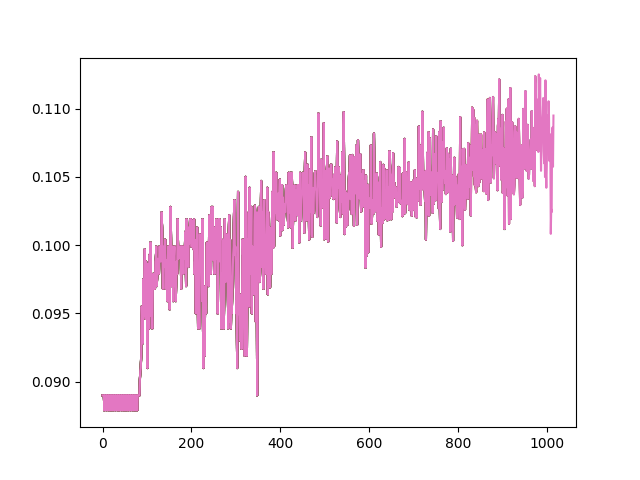
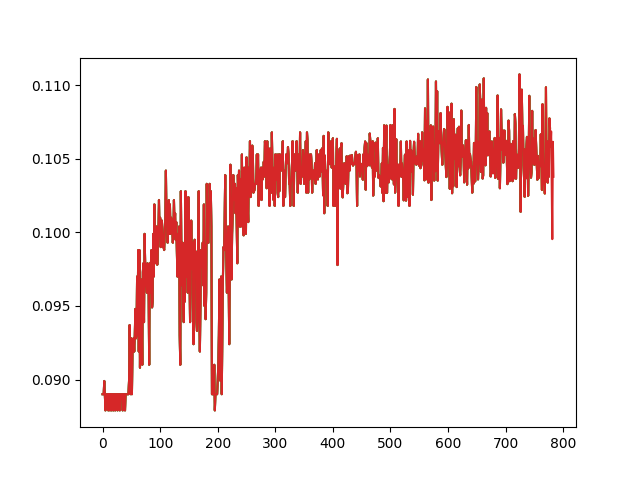
Add brute exploring

diff --git a/experiment.py b/experiment.py
@@ -41,7 +41,7 @@ ACTIONS_1 = 2
 ACTIONS_2 = 3 # change to not equal 3 if you don't want action 3 to be treated specially
 ACTIONS_NAME=['不动','起飞', 'FIRE']  #动作名
 GAMMA = 0.99 # 未来奖励的衰减
-EPSILON = 0.0001
+EPSILON = 0.001
 REPLAY_MEMORY = 50000 # 观测存储器D的容量
 BATCH = 32 # 训练batch大小
 
@@ -206,7 +206,8 @@ def myprint(s):
     with open('structure.txt','w') as f:
         print(s, file=f)
 
-def trainNetwork(stage, num_of_actions, lock_mode, is_simple_actions_locked, is_activate_boss_memory, isSweetBoss, max_steps, resume_Adam, is_resume_RB_in_drive, learning_rate=1e-6, event=None, is_colab=False):
+def trainNetwork(stage, num_of_actions, lock_mode, is_simple_actions_locked, is_activate_boss_memory, isSweetBoss, max_steps, resume_Adam, is_resume_RB_in_drive, is_brute_exploring, learning_rate=1e-6, event=None, is_colab=False):
+    brute_exploring_rng = np.random.default_rng()
     hindsight_memory = []
     neuron = open("neurons.txt", 'w')
     os.environ['TF_CPP_MIN_LOG_LEVEL'] = '3' # Ask the tensorflow to shut up. IF you disable this, a bunch of logs from tensorflow will put you down when you're using colab.
@@ -334,7 +335,6 @@ def trainNetwork(stage, num_of_actions, lock_mode, is_simple_actions_locked, is_
                 net1.load_weights(checkpoint_save_path,by_name=True)
             else: # Train new network for the control group
                 print('-------------train new model-------------')
-                input()
                 net1 = MyNet2(now_num_action)
                 net1.build(input_shape=(1, input_sidelength[0], input_sidelength[1], 4))
                 net1.call(Input(shape=(input_sidelength[0], input_sidelength[1], 4)))
@@ -362,7 +362,6 @@ def trainNetwork(stage, num_of_actions, lock_mode, is_simple_actions_locked, is_
             print(net1.f2.get_weights())
             print('======================================')
             print(controlNet.f2.get_weights())
-            input()
             controlNet = None # clean the garbage
             num_actions_file = open('now_num_of_actions.txt', 'w')
             num_actions_file.write(str(ACTIONS_2))
@@ -514,6 +513,8 @@ def trainNetwork(stage, num_of_actions, lock_mode, is_simple_actions_locked, is_
     net1_target.set_weights(net1.get_weights())
     fall_action_effect_len = 20
     fall_action_effect_frame = fall_action_effect_len
+    bruted_len = 1
+    num_of_bruted_frames = 1
     # 开始训练
     while True:
         if (event != None and event.is_set()) or t > max_steps:
@@ -532,7 +533,7 @@ def trainNetwork(stage, num_of_actions, lock_mode, is_simple_actions_locked, is_
         a_t_to_game = np.zeros([num_of_actions])
         action_index = 0
         
-        if fall_action_effect_frame < fall_action_effect_len:
+        if fall_action_effect_frame < fall_action_effect_len: # pressing key '9' to fall <fall_action_effect_len> frames
             fall_action_effect_frame += 1
         #贪婪策略，有episilon的几率随机选择动作去探索，否则选取Q值最大的动作
         ispress = False
@@ -562,10 +563,23 @@ def trainNetwork(stage, num_of_actions, lock_mode, is_simple_actions_locked, is_
             
         if (not ispress):
             if (t > -1):
-                if random.random() <= epsilon:
-                    print("----------Random Action----------")
+                if num_of_bruted_frames < bruted_len:
+                    print("----------Bruted Random Action----------")
                     action_index = random.randrange(num_of_actions)
                     a_t_to_game[action_index] = 1
+                    num_of_bruted_frames += 1
+                elif random.random() <= epsilon:
+                    if is_brute_exploring:
+                        print("----------Start Brute Exploring----------")
+                        bruted_len = (int)(brute_exploring_rng.uniform(low=1, high=10))
+                        num_of_bruted_frames = 0
+                        action_index = random.randrange(num_of_actions)
+                        a_t_to_game[action_index] = 1
+                        num_of_bruted_frames += 1
+                    else:
+                        print("----------Random Action----------")
+                        action_index = random.randrange(num_of_actions)
+                        a_t_to_game[action_index] = 1
                 else:
                     print("-----------net choice----------------")
                     action_index = np.argmax(readout_t)
@@ -642,13 +656,14 @@ def trainNetwork(stage, num_of_actions, lock_mode, is_simple_actions_locked, is_
                 D_boss.append((s_t_D, a_t_D, r_t_D, s_t1_D, terminal))
             else:
                 D.append((s_t_D, a_t_D, r_t_D, s_t1_D, terminal))
-        if t <= OBSERVE:
-            D_save.append((s_t_D_next, a_t_D, r_t_D, s_t1_D_next, terminal))
-        else:
-            if not is_resume_RB_in_drive and t == OBSERVE + 1:
-                buffer_to_write = np.array(D_save, dtype=object) # Write the replay memory on observe to the drive
-                np.save('last_buffer', buffer_to_write)
-            D_save = None # After writing to the drive, clean the memory
+        # if t <= OBSERVE:
+        #     #D_save.append((s_t_D_next, a_t_D, r_t_D, s_t1_D_next, terminal))
+        # else:
+        #     if not is_resume_RB_in_drive and t == OBSERVE + 1:
+        #         buffer_to_write = np.array(D_save, dtype=object) # Write the replay memory on observe to the drive
+        #         np.save('last_buffer', buffer_to_write)
+        #     buffer_to_write = None
+        #     D_save = None # After writing to the drive, clean the memory
         #如果D满了就替换最早的观测
         if len(D) > REPLAY_MEMORY:
             D.popleft()
@@ -689,7 +704,7 @@ def trainNetwork(stage, num_of_actions, lock_mode, is_simple_actions_locked, is_
             print("==================start train====================")
             print("Boss length", len(D_boss))
             num_of_boss_batch = int(BATCH * 1 / 2)
-            if len(D_boss) <= 500:
+            if len(D_boss) <= 3000:
                 minibatch = random.sample(D, BATCH)
             else:
                 minibatch = random.sample(D, BATCH - num_of_boss_batch)

diff --git a/app.py b/app.py
@@ -1,6 +1,6 @@
 import sys
 import threading
-from PyQt5.QtWidgets import QApplication, QWidget, QVBoxLayout, QHBoxLayout, QLabel, QComboBox, QPushButton, QCheckBox, QLineEdit, QMessageBox, QRadioButton, QButtonGroup
+from PyQt5.QtWidgets import QApplication, QWidget, QVBoxLayout, QGridLayout, QHBoxLayout, QLabel, QComboBox, QPushButton, QCheckBox, QLineEdit, QMessageBox, QRadioButton, QButtonGroup
 from PyQt5.QtGui import QPixmap, QMovie
 from PyQt5.QtCore import Qt, QTimer, QRect, QSize
 import os
@@ -58,6 +58,7 @@ class MyWindow(QWidget):
         self.sweet_boss_checkbox = QCheckBox('Is Sweet Boss')
         self.inherit_checkpoint_checkbox = QCheckBox('Is Checkpoint Inheritted')
         self.resume_RB_checkbox = QCheckBox('Is Previous Stage Replay Buffer Resumed')
+        self.brute_exploring_checkbox = QCheckBox('Is Brute Exploring')
 
         self.train_button = QPushButton('Start Training')
         self.train_new_button = QPushButton('Train New Network')
@@ -106,15 +107,14 @@ class MyWindow(QWidget):
         layout.addWidget(self.lockmode_label)
         layout.addLayout(locks_layout)
 
-        layout.addWidget(self.lock_simple_actions_checkbox)
-
-        layout.addWidget(self.activate_boss_mem_checkbox)
-
-        layout.addWidget(self.sweet_boss_checkbox)
-
-        layout.addWidget(self.inherit_checkpoint_checkbox)
-
-        layout.addWidget(self.resume_RB_checkbox)
+        checkbox_layout = QGridLayout()
+        checkbox_layout.addWidget(self.lock_simple_actions_checkbox, 0, 0)
+        checkbox_layout.addWidget(self.activate_boss_mem_checkbox, 1, 0)
+        checkbox_layout.addWidget(self.brute_exploring_checkbox, 2, 0)
+        checkbox_layout.addWidget(self.sweet_boss_checkbox, 0, 1)
+        checkbox_layout.addWidget(self.inherit_checkpoint_checkbox, 1, 1)
+        checkbox_layout.addWidget(self.resume_RB_checkbox, 2, 1)
+        layout.addLayout(checkbox_layout)
 
         layout.addWidget(self.max_steps_label)
         layout.addWidget(self.max_steps_input)
@@ -181,7 +181,8 @@ class MyWindow(QWidget):
             is_activate_boss_memory = self.activate_boss_mem_checkbox.isChecked()
             is_sweet_boss = self.sweet_boss_checkbox.isChecked()
             is_inherit_checkpoint = self.inherit_checkpoint_checkbox.isChecked()
-            is_RB_resumed = self.resume_RB_checkbox
+            is_RB_resumed = self.resume_RB_checkbox.isChecked()
+            is_brute_exploring = self.brute_exploring_checkbox.isChecked()
             try:
                 max_steps = int(self.max_steps_input.text())
             except ValueError:
@@ -198,7 +199,7 @@ class MyWindow(QWidget):
             self.train_new_button.setEnabled(False)
 
             self.training_event = threading.Event()
-            self.training_thread = threading.Thread(target=self.run_train_network, args=(stage, num_of_actions, self.lockmode, is_simple_locked, is_activate_boss_memory, is_inherit_checkpoint, is_sweet_boss, max_steps, is_RB_resumed, lr, self.training_event))
+            self.training_thread = threading.Thread(target=self.run_train_network, args=(stage, num_of_actions, self.lockmode, is_simple_locked, is_activate_boss_memory, is_inherit_checkpoint, is_sweet_boss, max_steps, is_RB_resumed, is_brute_exploring, lr, self.training_event))
             self.training_thread.start()
             #self.run_train_network(stage, is_pretrained_unlock, max_steps, self.training_event)
         else:
@@ -209,17 +210,17 @@ class MyWindow(QWidget):
             if self.training_thread:
                 self.training_event.set()
 
-    def run_train_network(self, stage, num_of_actions, lockmode, is_simple_locked, is_activate_boss_memory, is_inherit_checkpoint, is_sweet_boss, max_steps, is_RB_resumed, lr, event : threading.Event):
+    def run_train_network(self, stage, num_of_actions, lockmode, is_simple_locked, is_activate_boss_memory, is_inherit_checkpoint, is_sweet_boss, max_steps, is_RB_resumed, is_brute_exploring, lr, event : threading.Event):
         self.check_image_modification()
         from experiment import trainNetwork
         print(f"Training Network with stage={stage}, is_simple_locked={is_simple_locked}")
         last_steps = self.read_last_old_time()
         training_param_history_file = open('training_history.txt', 'a')
         training_param_history_file.write(f"LAST STEPS:\t{last_steps}-----------------------------\n")
-        training_param_history_file.write(f"stage:\t{stage}\nnum of actions:\t{num_of_actions}\nlock mode:\t{lockmode}\nis simple action locked:\t{is_simple_locked}\nis activate boss memory:\t{is_activate_boss_memory}\nis sweet boss:\t{is_sweet_boss}\nis RB resumed:\t{is_RB_resumed}\nlearning rate:\t{lr}\n")
+        training_param_history_file.write(f"stage:\t{stage}\nnum of actions:\t{num_of_actions}\nlock mode:\t{lockmode}\nis simple action locked:\t{is_simple_locked}\nis activate boss memory:\t{is_activate_boss_memory}\nis sweet boss:\t{is_sweet_boss}\nis RB resumed:\t{is_RB_resumed}\nis Brute Explore:\t{is_brute_exploring}\nlearning rate:\t{lr}\n")
         training_param_history_file.write('-----------------------------')
         training_param_history_file.close()
-        trainNetwork(stage, num_of_actions, lockmode, is_simple_locked, is_activate_boss_memory, is_sweet_boss, max_steps, is_inherit_checkpoint, is_RB_resumed, lr, event)
+        trainNetwork(stage, num_of_actions, lockmode, is_simple_locked, is_activate_boss_memory, is_sweet_boss, max_steps, is_inherit_checkpoint, is_RB_resumed, is_brute_exploring, lr, event)
         self.toggle_train_network()
 
     def confirm_train_new_network(self):

diff --git a/game/wrapped_flappy_bird.py b/game/wrapped_flappy_bird.py
@@ -11,7 +11,7 @@ from enum import Enum
 
 fireReward = 0.08
 misShoot = -0.5
-shootWrong = -0.05
+shootWrong = -0.1
 sweetBoss = 0.1
 no_fire_punishment = -0.5
 
@@ -315,7 +315,7 @@ class GameState:
                 if self.playery > PLAYER_HEIGHT / 2 + 7:
                     reward = sweetBoss
                 else:
-                    reward = -1
+                    reward = -2.87
             else:
                 reward = -1
             self.__init__(self.isSweetBoss)
@@ -380,8 +380,12 @@ class GameState:
 
         for uPipe, lPipe in zip(self.upperPipes, self.lowerPipes):
             if uPipe['type'] == 0:
-                SCREEN.blit(IMAGES['pipe'][0], (uPipe['x'], uPipe['y']))
-                SCREEN.blit(IMAGES['pipe'][1], (lPipe['x'], lPipe['y']))
+                if uPipe['action'] == 1:
+                    SCREEN.blit(IMAGES['pipe_boss'][0], (uPipe['x'], uPipe['y']))
+                    SCREEN.blit(IMAGES['pipe_boss'][1], (lPipe['x'], lPipe['y']))
+                else:
+                    SCREEN.blit(IMAGES['pipe'][0], (uPipe['x'], uPipe['y']))
+                    SCREEN.blit(IMAGES['pipe'][1], (lPipe['x'], lPipe['y']))
             else:
                 SCREEN.blit(IMAGES['pipe2'][0], (uPipe['x'], uPipe['y']))
                 SCREEN.blit(IMAGES['pipe2'][1], (lPipe['x'], lPipe['y']))
@@ -408,8 +412,9 @@ class GameState:
                 #SOUNDS['point'].play() #disable it if you do not need sound
                 print("Good! reward: ", reward)
                 if pipe['action'] == 1:
+                    if self.base_situation != 2:
+                        reward = sweetBoss
                     self.base_situation = 0
-                    reward = sweetBoss
                 else:
                     reward = 1
         score = self.score

diff --git a/game/flappy_bird_utils.py b/game/flappy_bird_utils.py
@@ -14,6 +14,7 @@ def load():
     # path of pipe
     PIPE_PATH = 'assets/sprites/pipe-green.png'
     PIPE_PATH2 = 'assets/sprites/pipe-green2.png'
+    PIPE_PATH_BOSS = 'assets/sprites/pipe-green-boss.png'
 
     # path of bullet
     BULLET_PATH = 'assets/sprites/bullet2.png'
@@ -77,6 +78,11 @@ def load():
         pygame.transform.rotate(
             pygame.image.load(PIPE_PATH2).convert_alpha(), 180),
         pygame.image.load(PIPE_PATH2).convert_alpha(),
+    )
+    IMAGES['pipe_boss'] = (
+        pygame.transform.rotate(
+            pygame.image.load(PIPE_PATH_BOSS).convert_alpha(), 180),
+        pygame.image.load(PIPE_PATH_BOSS).convert_alpha(),
     )
 
     IMAGES['bullet'] = pygame.image.load(BULLET_PATH).convert_alpha()
